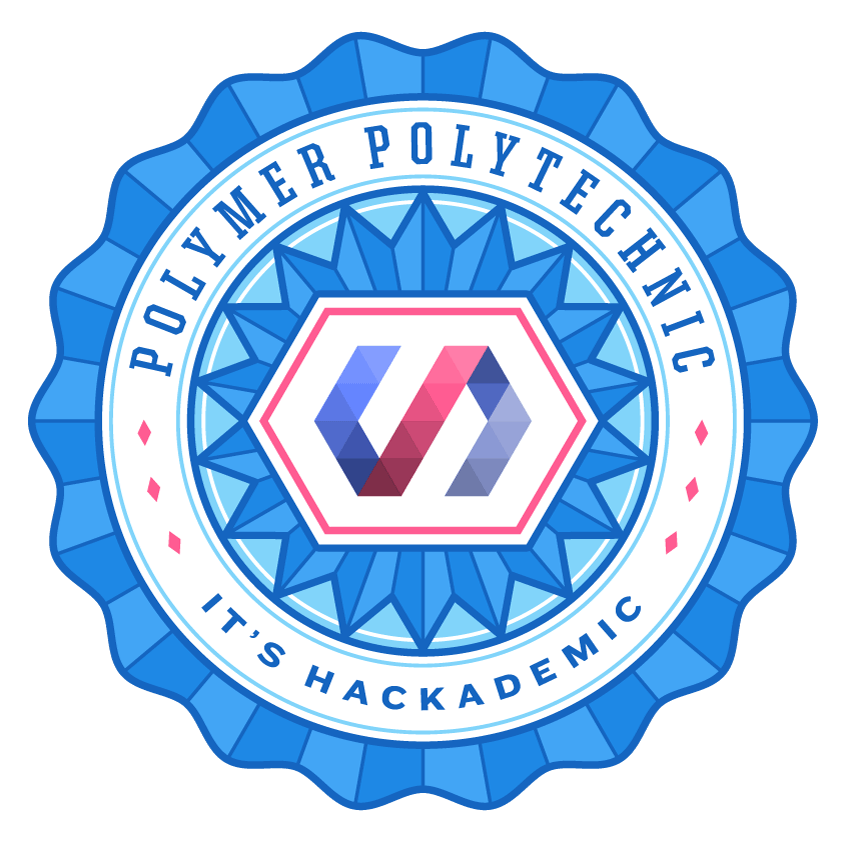
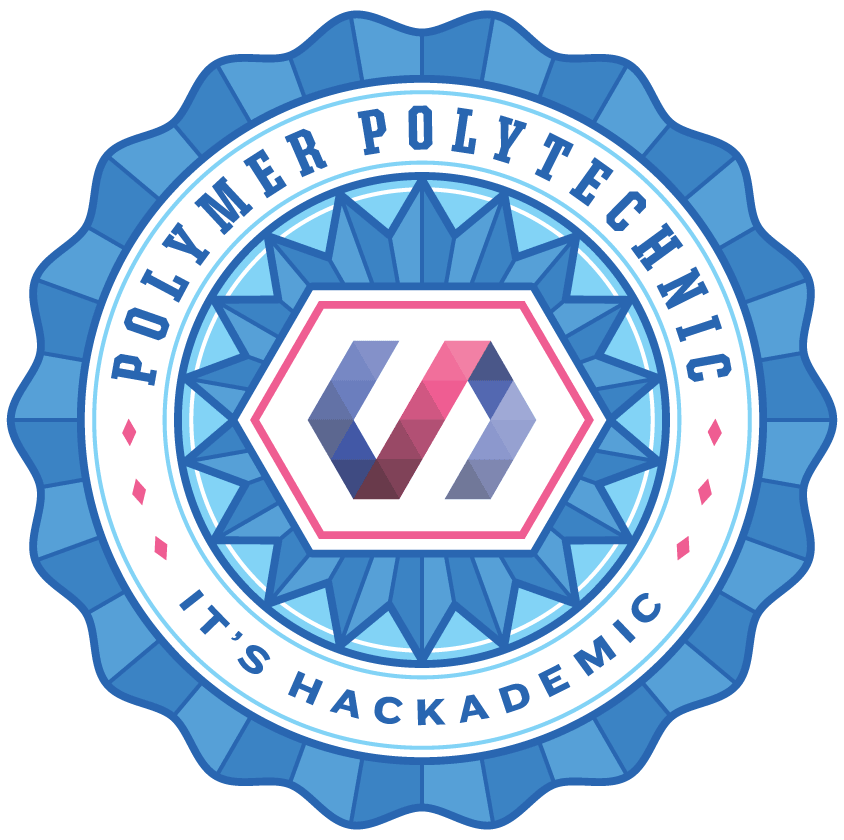
Removed shadow from badge

diff --git a/static/css/main.css b/static/css/main.css
@@ -1,1 +1,1 @@
-body{margin:0;background-color:#eff2f3;background-image:url("../images/bg1.png");background-size:30px 17.25px;background-position:center}header{text-align:center;margin-bottom:48px}header a{background-color:white;display:inline-block;box-shadow:0px 0px 8px rgba(0,0,0,0.1)}header a:hover .polymer-logo{opacity:0.7}header a .polymer-logo{display:block;width:90px;padding:12px;-webkit-transition:opacity 100ms;transition:opacity 100ms}.badge-section{position:relative;background-color:#445963;background-image:url("../images/bg2.png");background-size:cover;background-position:center;text-align:center}.badge-section::before,.badge-section::after{content:"";position:absolute;left:0;right:0;border-bottom:1px solid #fff}.badge-section::before{top:8px}.badge-section::after{bottom:8px}#badge{width:280px;height:auto;margin:48px 0 12px;position:relative;z-index:2}.badge-shadow{display:block;width:240px;height:240px;position:absolute;top:68px;left:50%;margin-left:-120px;border-radius:50%;box-shadow:0px 0px 20px 10px rgba(0,0,0,0.2);z-index:1}.date{margin:0 auto;padding-bottom:48px;display:block;width:200px;height:auto}.register-section{margin-top:56px;text-align:center}.register-section a{display:inline-block;background-color:#41a4f4;box-shadow:0px 0px 8px rgba(0,0,0,0.1)}.register-section a:hover{background-color:#5eb2f6}.register-section a .register{padding:24px 36px;display:block;width:280px}footer{margin-top:48px;text-align:center;background:white;box-shadow:0px 0px 8px rgba(0,0,0,0.1)}footer ul{list-style:none;margin:0}footer li{display:inline-block;padding:24px;line-height:27px;vertical-align:middle}footer li a{display:block;width:27px;height:27px;position:relative}footer li a:hover img{opacity:0.7}footer li img{position:absolute;top:50%;left:50%;-webkit-transform:translate(-50%, -50%);-ms-transform:translate(-50%, -50%);transform:translate(-50%, -50%);-webkit-transition:opacity 100ms;transition:opacity 100ms}@media (min-width: 1480px){header a .polymer-logo{width:120px;padding:12px}#badge{width:360px;margin:72px 0 24px}.badge-shadow{width:310px;height:310px;top:100px;margin-left:-155px}.date{padding-bottom:72px;width:300px}.register-section{margin-top:72px}.register-section a .register{padding:24px 48px;width:380px}footer li{padding:24px;line-height:40px}footer li a{width:40px;height:40px}}@media (min-height: 720px){footer{position:fixed;bottom:0;left:0;right:0}}@media (-webkit-min-device-pixel-ratio: 1.25), (min-resolution: 120dppx){.badge-section{background-image:url("../images/bg2@2x.png");background-size:cover}}
+body{margin:0;background-color:#eff2f3;background-image:url("../images/bg1.png");background-size:30px 17.25px;background-position:center}header{text-align:center;margin-bottom:48px}header a{background-color:white;display:inline-block;box-shadow:0px 0px 8px rgba(0,0,0,0.1)}header a:hover .polymer-logo{opacity:0.7}header a .polymer-logo{display:block;width:90px;padding:12px;-webkit-transition:opacity 100ms;transition:opacity 100ms}.badge-section{position:relative;background-color:#445963;background-image:url("../images/bg2.png");background-size:cover;background-position:center;text-align:center}.badge-section::before,.badge-section::after{content:"";position:absolute;left:0;right:0;border-bottom:2px solid #fff}.badge-section::before{top:8px}.badge-section::after{bottom:8px}#badge{width:280px;height:auto;margin:48px 0 12px;position:relative;z-index:2}.date{margin:0 auto;padding-bottom:48px;display:block;width:200px;height:auto}.register-section{margin-top:56px;text-align:center}.register-section a{display:inline-block;background-color:#41a4f4;box-shadow:0px 0px 8px rgba(0,0,0,0.1)}.register-section a:hover{background-color:#5eb2f6}.register-section a .register{padding:24px 36px;display:block;width:280px}footer{margin-top:48px;text-align:center;background:white;box-shadow:0px 0px 8px rgba(0,0,0,0.1)}footer ul{list-style:none;margin:0}footer li{display:inline-block;padding:24px;line-height:27px;vertical-align:middle}footer li a{display:block;width:27px;height:27px;position:relative}footer li a:hover img{opacity:0.7}footer li img{position:absolute;top:50%;left:50%;-webkit-transform:translate(-50%, -50%);-ms-transform:translate(-50%, -50%);transform:translate(-50%, -50%);-webkit-transition:opacity 100ms;transition:opacity 100ms}@media (min-width: 1480px){header a .polymer-logo{width:120px;padding:12px}#badge{width:360px;margin:72px 0 24px}.badge-shadow{width:310px;height:310px;top:100px;margin-left:-155px}.date{padding-bottom:72px;width:300px}.register-section{margin-top:72px}.register-section a .register{padding:24px 48px;width:380px}footer li{padding:24px;line-height:40px}footer li a{width:40px;height:40px}}@media (min-height: 720px){footer{position:fixed;bottom:0;left:0;right:0}}@media (-webkit-min-device-pixel-ratio: 1.25), (min-resolution: 120dppx){.badge-section{background-image:url("../images/bg2@2x.png");background-size:cover}}

diff --git a/src/main.scss b/src/main.scss
@@ -48,7 +48,7 @@ header {
     position: absolute;
     left: 0;
     right: 0;
-    border-bottom: 1px solid $white;
+    border-bottom: 2px solid $white;
   }
   &::before {
     top: 8px;
@@ -66,18 +66,18 @@ header {
   z-index: 2;
 }
 
-.badge-shadow {
-  display: block;
-  width: 240px;
-  height: 240px;
-  position: absolute;
-  top: 68px;
-  left: 50%;
-  margin-left: -120px;
-  border-radius: 50%;
-  box-shadow: 0px 0px 20px 10px rgba(0,0,0,0.2);
-  z-index: 1;
-}
+// .badge-shadow {
+//   display: block;
+//   width: 240px;
+//   height: 240px;
+//   position: absolute;
+//   top: 68px;
+//   left: 50%;
+//   margin-left: -120px;
+//   border-radius: 50%;
+//   box-shadow: 0px 0px 20px 10px rgba(0,0,0,0.2);
+//   z-index: 1;
+// }
 
 .date {
   margin: 0 auto;

diff --git a/static/index.html b/static/index.html
@@ -17,7 +17,7 @@
     <main>
       <section class="badge-section">
         <img id="badge" src="images/badge.png" height="422" width="420" />
-        <span class="badge-shadow"></span>
+        <!-- <span class="badge-shadow"></span> -->
         <img class="date" src="images/date.svg" />
       </section>
       <section class="register-section">
